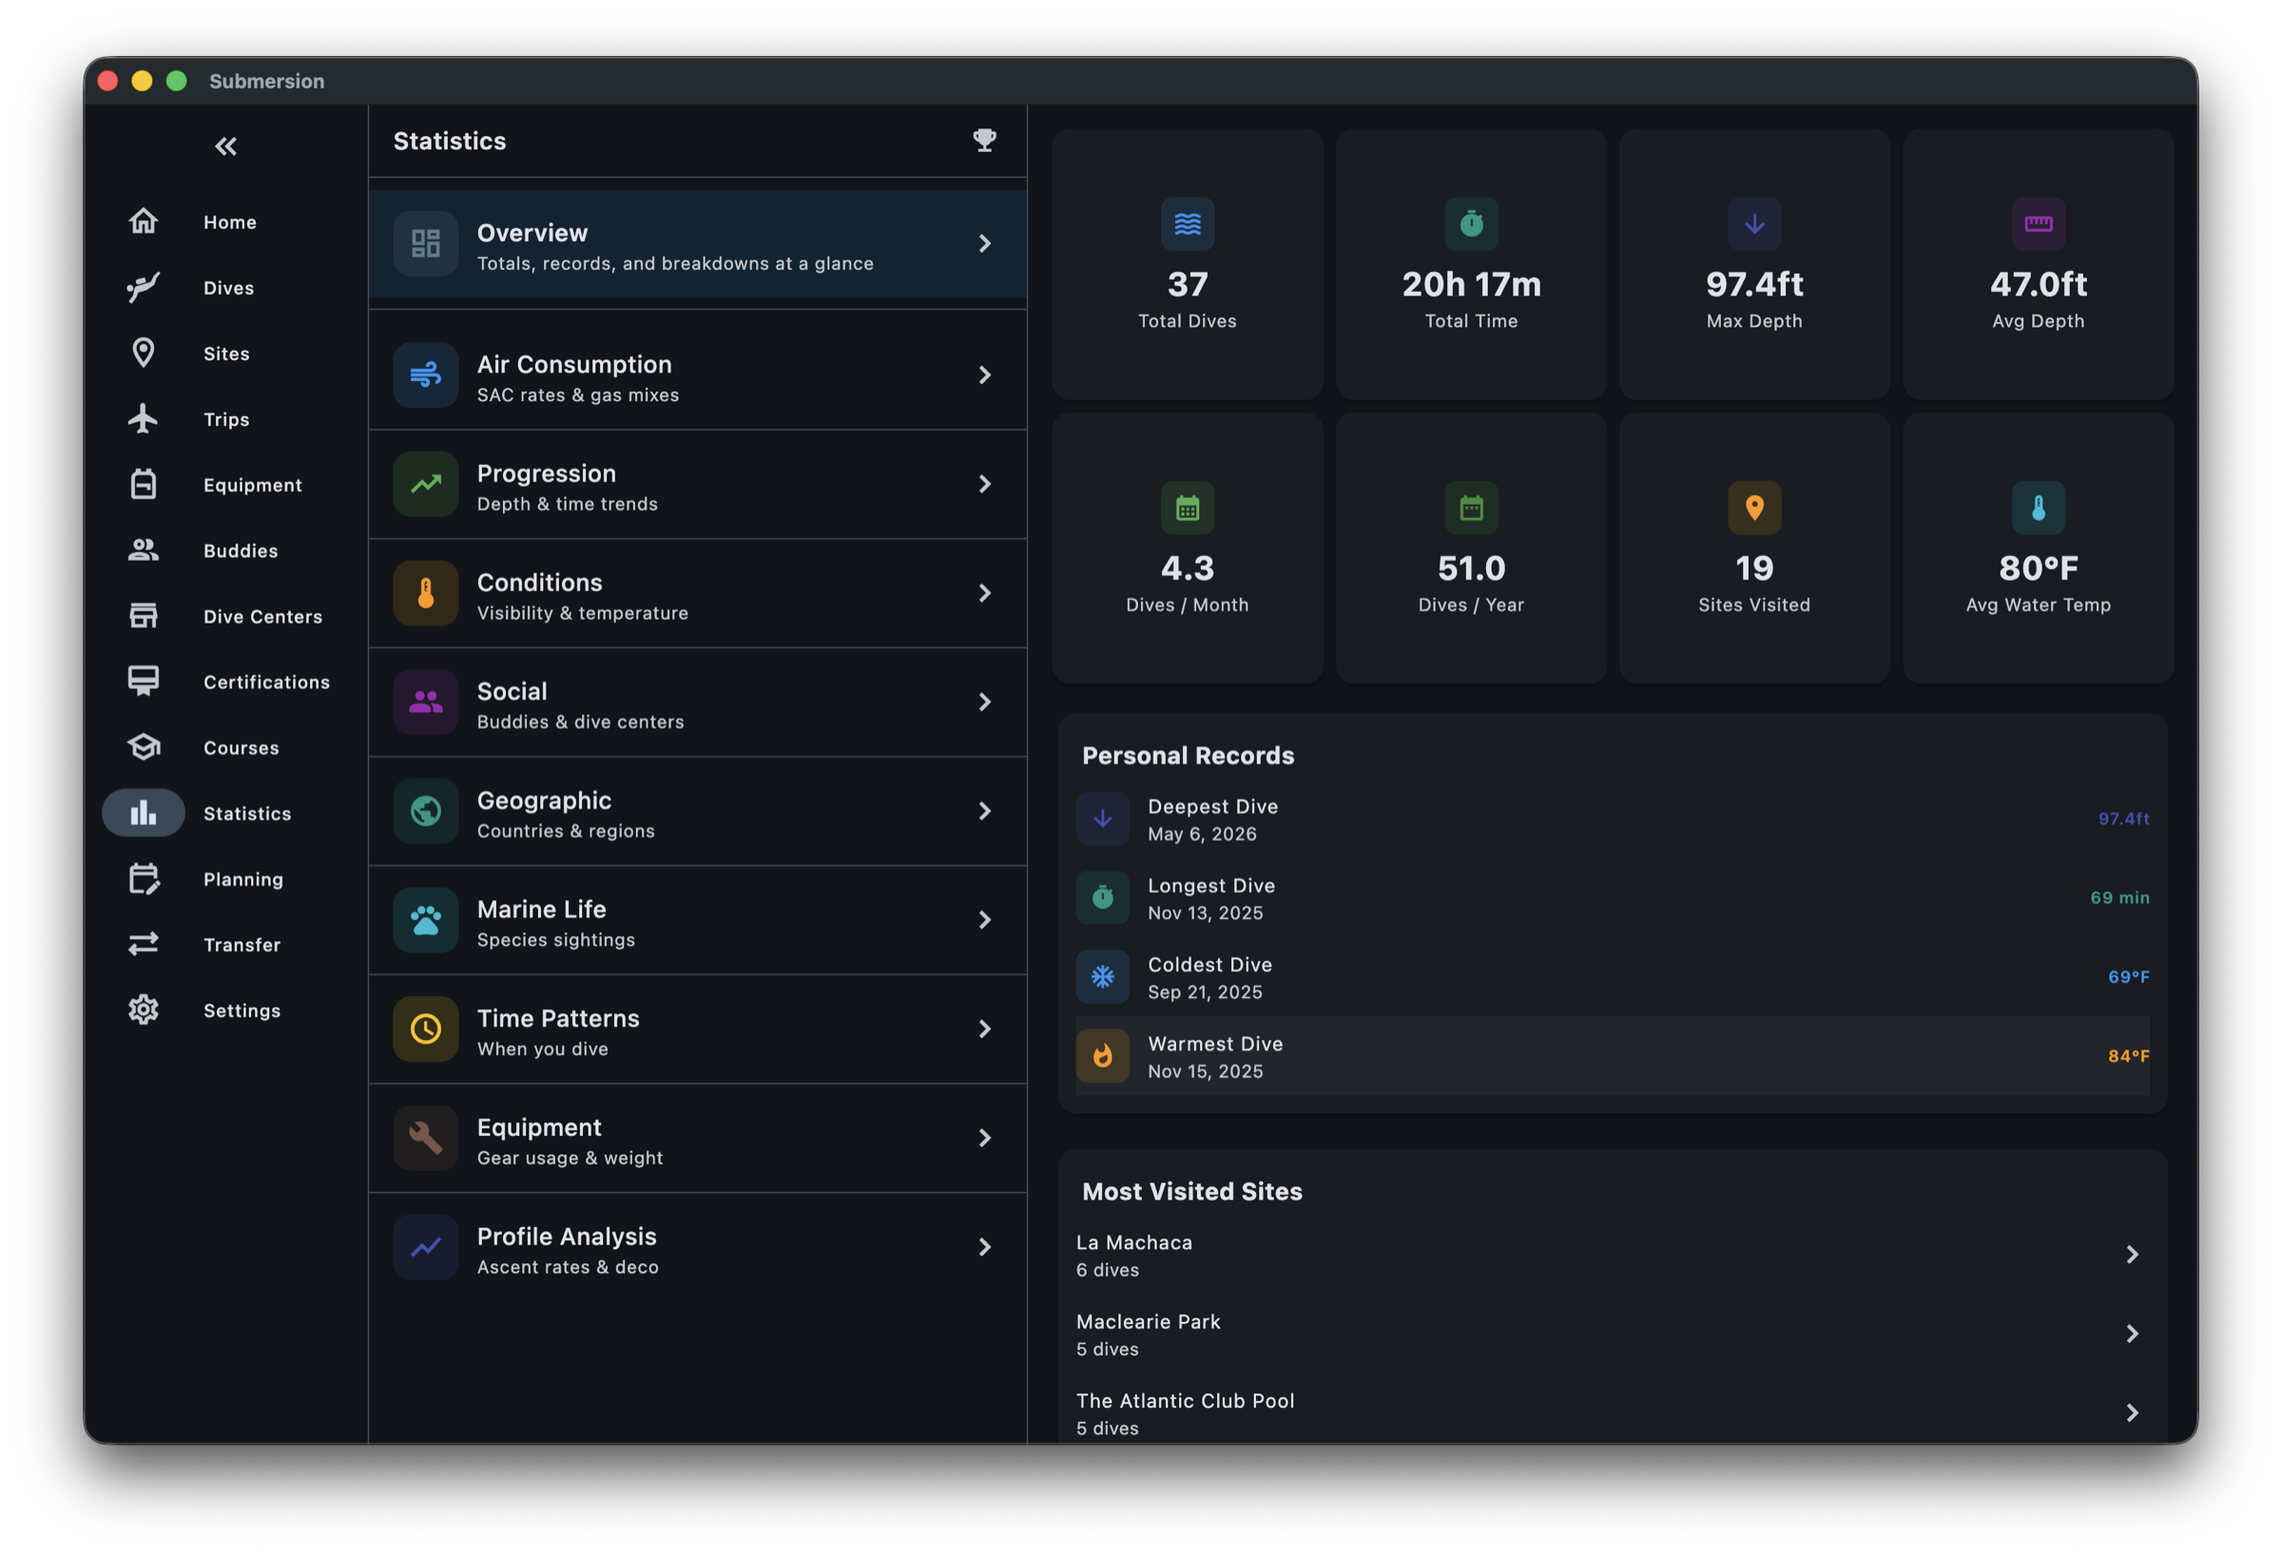
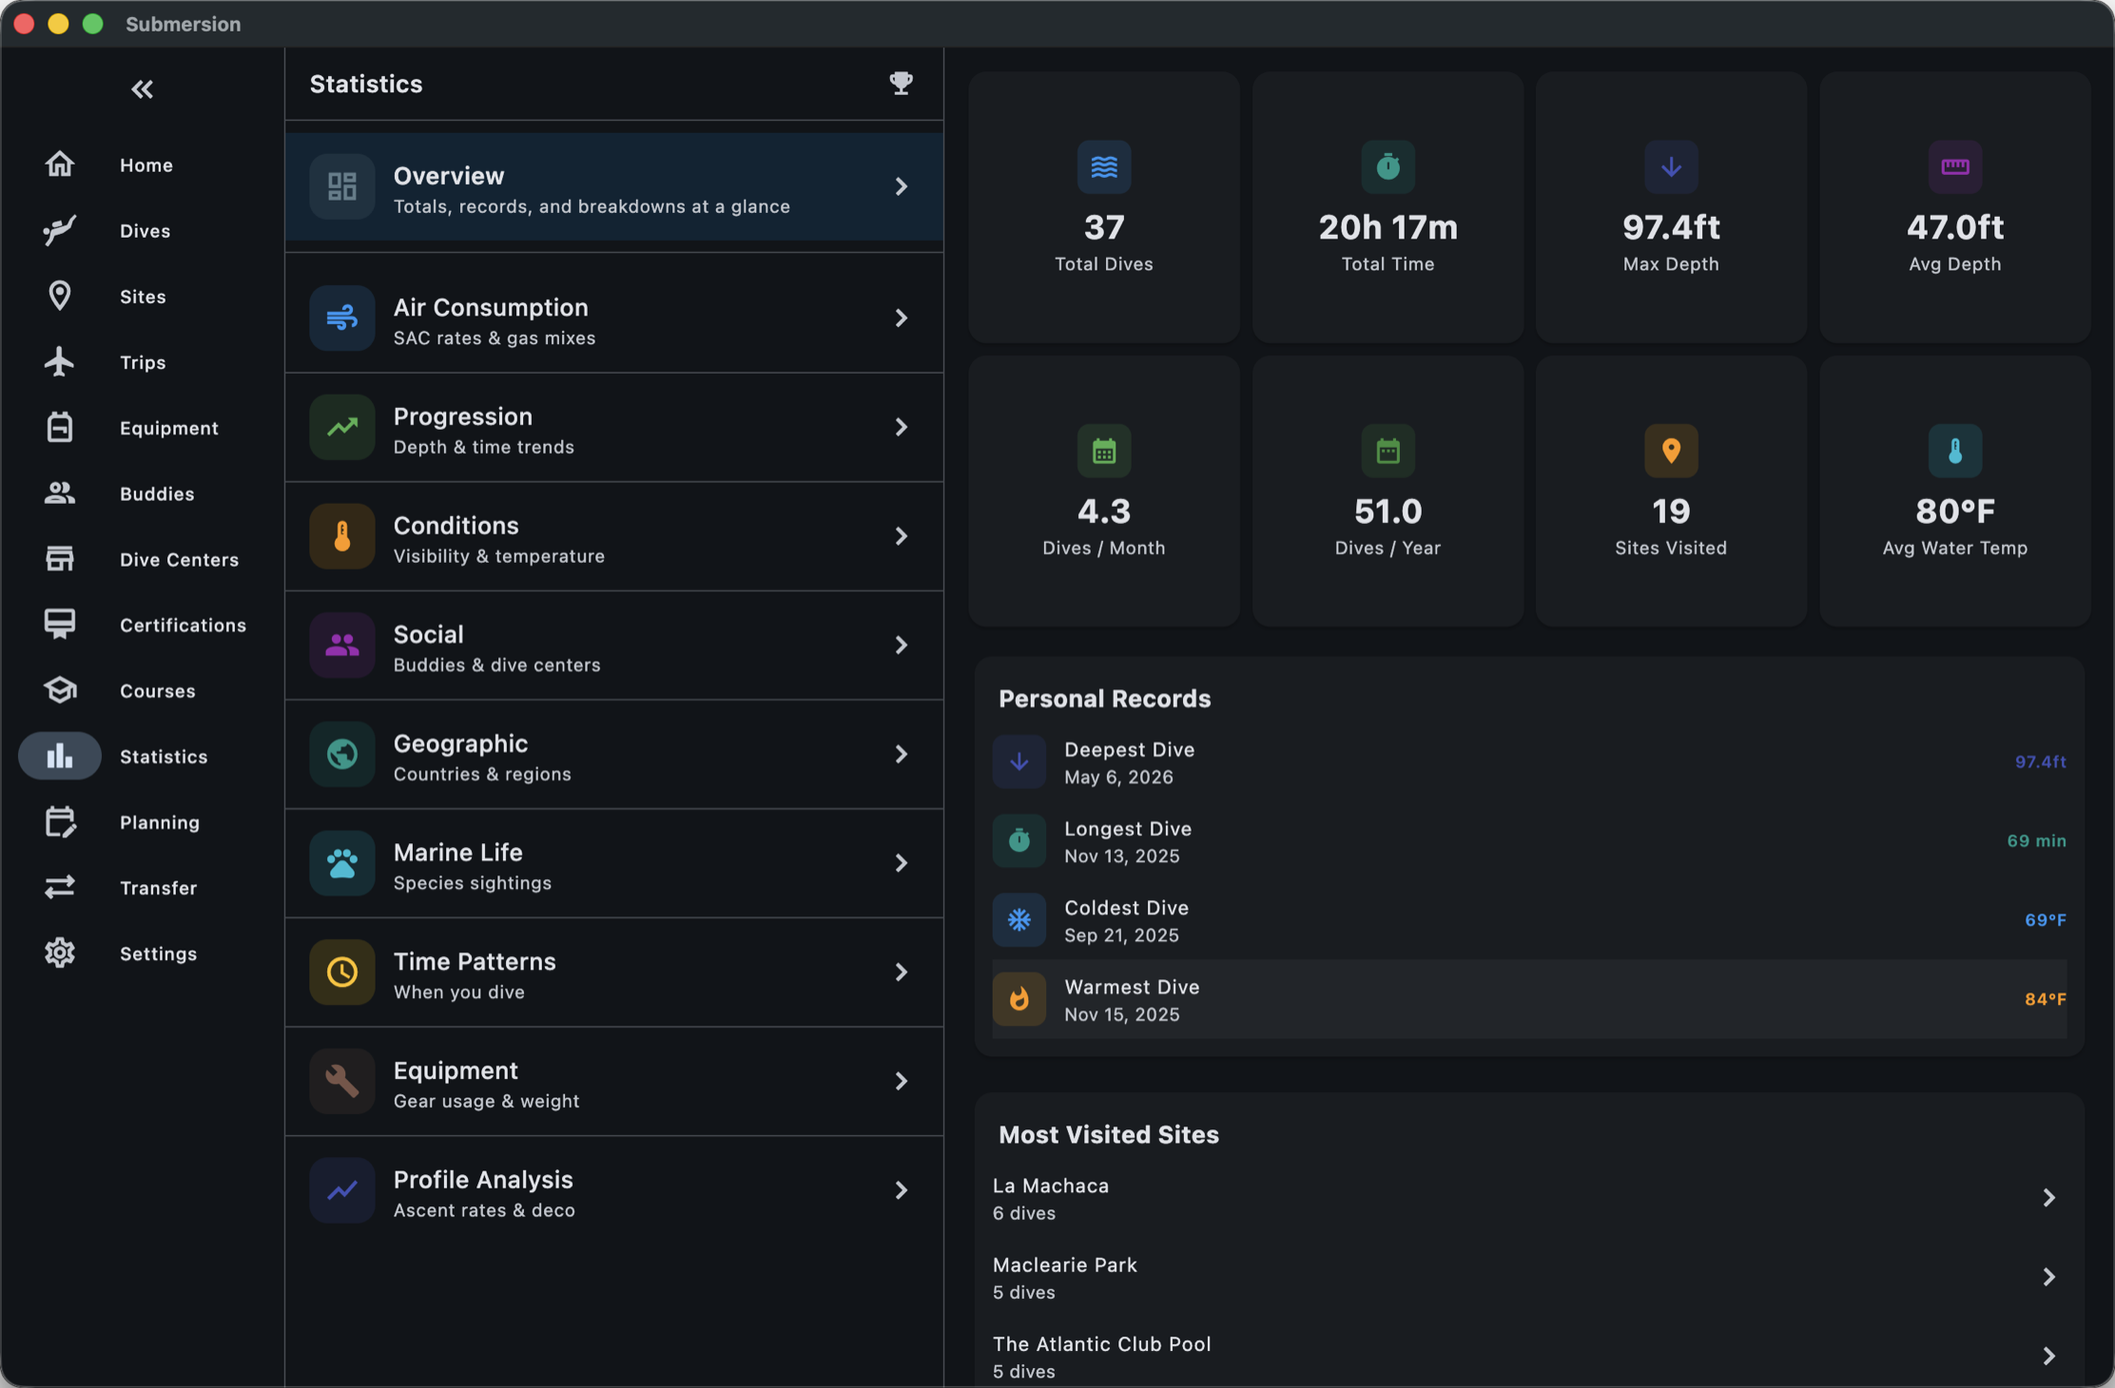
Add a tilted app screenshot beside the hero copy; crop screenshots to window bounds
The hero becomes a two-column grid at 1000 px and up with dive_detail.png
on the right, stacked below the copy on narrower screens. All seventeen
screenshots lose the transparent screencapture shadow margin so the CSS
frame sits on the window edge; image dimensions updated to match.

Claude-Session: https://claude.ai/code/session_01BK9uBQEs8wN5rHCUNCGXxz

diff --git a/index.html b/index.html
@@ -85,19 +85,24 @@
       </nav>
 
       <section class="hero">
-        <div class="zone__inner wrap">
-          <p class="eyebrow">Free · Open source · iOS · Android · macOS · Windows · Linux</p>
-          <h1>The complete dive app, free and open.</h1>
-          <p class="lead">
-            Download your computer, check the deco on the profile, plan tomorrow's dive with the gas
-            you actually have, log who you dove with and what you saw, and keep every bit of it on
-            your own hardware. Rec or tech, single tank or rebreather, it all fits in the same
-            logbook.
-          </p>
-          <div class="cta-row">
-            <a class="btn" href="#download">Download</a>
-            <a class="btn btn--ghost" href="https://github.com/submersion-app/submersion" target="_blank" rel="noreferrer">Source on GitHub</a>
+        <div class="zone__inner wrap hero__inner">
+          <div class="hero__copy">
+            <p class="eyebrow">Free · Open source · iOS · Android · macOS · Windows · Linux</p>
+            <h1>The complete dive app, free and open.</h1>
+            <p class="lead">
+              Download your computer, check the deco on the profile, plan tomorrow's dive with the
+              gas you actually have, log who you dove with and what you saw, and keep every bit of
+              it on your own hardware. Rec or tech, single tank or rebreather, it all fits in the
+              same logbook.
+            </p>
+            <div class="cta-row">
+              <a class="btn" href="#download">Download</a>
+              <a class="btn btn--ghost" href="https://github.com/submersion-app/submersion" target="_blank" rel="noreferrer">Source on GitHub</a>
+            </div>
           </div>
+          <figure class="hero__art">
+            <img src="screenshots/dive_detail.png" alt="Submersion on macOS: the dive list beside a dive's detail with its profile, deco status and tissue loading" width="2228" height="1392" fetchpriority="high" decoding="async" />
+          </figure>
         </div>
       </section>
     </header>
@@ -112,7 +117,7 @@
             first time, only new dives come across.
           </p>
           <figure class="shot--wide">
-            <img src="screenshots/computer_import.png" alt="Dive computer download review step showing a 70 percent match against an existing dive, both profiles overlaid, and four resolution actions" width="2400" height="1720" loading="lazy" decoding="async" />
+            <img src="screenshots/computer_import.png" alt="Dive computer download review step showing a 70 percent match against an existing dive, both profiles overlaid, and four resolution actions" width="2240" height="1559" loading="lazy" decoding="async" />
             <figcaption>The review step of a download: a likely duplicate shown against the existing dive, both profiles overlaid, and the four ways to resolve it.</figcaption>
           </figure>
           <div class="features">
@@ -166,11 +171,11 @@
           </p>
           <div class="shots shots--2">
             <figure>
-              <img src="screenshots/dive_detail.png" alt="Dive list beside a dive detail pane with header statistics, the dive profile with events, deco status, oxygen exposure and tissue loading" width="2400" height="1565" loading="lazy" decoding="async" />
+              <img src="screenshots/dive_detail.png" alt="Dive list beside a dive detail pane with header statistics, the dive profile with events, deco status, oxygen exposure and tissue loading" width="2228" height="1392" loading="lazy" decoding="async" />
               <figcaption>A dive's detail pane: header stats, the profile with events, deco status, oxygen exposure and tissue loading.</figcaption>
             </figure>
             <figure>
-              <img src="screenshots/dive_table.png" alt="Dive log in table view beside a dive's details, environment, weather and tide sections" width="2400" height="1565" loading="lazy" decoding="async" />
+              <img src="screenshots/dive_table.png" alt="Dive log in table view beside a dive's details, environment, weather and tide sections" width="2228" height="1392" loading="lazy" decoding="async" />
               <figcaption>The table view beside a dive's details: conditions, weather for the day, entry and exit, and the tide.</figcaption>
             </figure>
           </div>
@@ -221,15 +226,15 @@
           </p>
           <div class="shots">
             <figure>
-              <img src="screenshots/sites_map.png" alt="Dive site list beside an interactive map with clustered markers and a dive heat map" width="2400" height="1477" loading="lazy" decoding="async" />
+              <img src="screenshots/sites_map.png" alt="Dive site list beside an interactive map with clustered markers and a dive heat map" width="2224" height="1301" loading="lazy" decoding="async" />
               <figcaption>Sites beside the map, with clustering and the heat map on.</figcaption>
             </figure>
             <figure>
-              <img src="screenshots/site_detail.png" alt="Three-dimensional seafloor terrain of a dive site with the dive's estimated path drawn on it" width="2400" height="1565" loading="lazy" decoding="async" />
+              <img src="screenshots/site_detail.png" alt="Three-dimensional seafloor terrain of a dive site with the dive's estimated path drawn on it" width="2228" height="1392" loading="lazy" decoding="async" />
               <figcaption>A site's 3D seafloor from bathymetry data, with the dive's estimated path.</figcaption>
             </figure>
             <figure>
-              <img src="screenshots/marine_life.png" alt="Marine life statistics with species sightings" width="2400" height="1565" loading="lazy" decoding="async" />
+              <img src="screenshots/marine_life.png" alt="Marine life statistics with species sightings" width="2228" height="1392" loading="lazy" decoding="async" />
               <figcaption>Species sightings across the log.</figcaption>
             </figure>
           </div>
@@ -271,15 +276,15 @@
           </p>
           <div class="shots">
             <figure>
-              <img src="screenshots/photo_gallery.png" alt="A dive video shown full screen with a dive computer face overlay reading depth, NDL, time, gas and tank pressure, and a small dive profile marking the moment it was taken" width="2400" height="1627" loading="lazy" decoding="async" />
+              <img src="screenshots/photo_gallery.png" alt="A dive video shown full screen with a dive computer face overlay reading depth, NDL, time, gas and tank pressure, and a small dive profile marking the moment it was taken" width="2208" height="1435" loading="lazy" decoding="async" />
               <figcaption>A photo or video full screen, with what your computer read at that moment and where it sits on the profile.</figcaption>
             </figure>
             <figure>
-              <img src="screenshots/equipment_sets.png" alt="Equipment sets screen showing a warm water gear configuration" width="2400" height="1636" loading="lazy" decoding="async" />
+              <img src="screenshots/equipment_sets.png" alt="Equipment sets screen showing a warm water gear configuration" width="2224" height="1460" loading="lazy" decoding="async" />
               <figcaption>Equipment sets: build a configuration once, apply it to a dive.</figcaption>
             </figure>
             <figure>
-              <img src="screenshots/certifications.png" alt="Certifications list showing agency, level and validity for each card" width="2400" height="1565" loading="lazy" decoding="async" />
+              <img src="screenshots/certifications.png" alt="Certifications list showing agency, level and validity for each card" width="2228" height="1392" loading="lazy" decoding="async" />
               <figcaption>Certifications, with agency, level and validity.</figcaption>
             </figure>
           </div>
@@ -323,16 +328,16 @@
             you can scrub through second by second.
           </p>
           <figure class="shot--wide">
-            <img src="screenshots/profile_player.png" alt="Full-screen dive profile playback with depth, temperature, NDL, ppO2 and tank pressure over time" width="2400" height="1669" loading="lazy" decoding="async" />
+            <img src="screenshots/profile_player.png" alt="Full-screen dive profile playback with depth, temperature, NDL, ppO2 and tank pressure over time" width="2248" height="1516" loading="lazy" decoding="async" />
             <figcaption>Full-screen playback with depth, temperature, NDL, ppO₂ and tank pressure on one timeline.</figcaption>
           </figure>
           <div class="shots shots--2">
             <figure>
-              <img src="screenshots/tissue_loading.png" alt="Tissue loading panel with a bar per compartment and a heat map of on-gassing and off-gassing over the dive" width="2400" height="1565" loading="lazy" decoding="async" />
+              <img src="screenshots/tissue_loading.png" alt="Tissue loading panel with a bar per compartment and a heat map of on-gassing and off-gassing over the dive" width="2228" height="1392" loading="lazy" decoding="async" />
               <figcaption>Tissue loading for all 16 compartments, and how each one loaded and unloaded through the dive.</figcaption>
             </figure>
             <figure>
-              <img src="screenshots/dive_3d.png" alt="Three-dimensional landscape of the 16 tissue compartments over the course of a dive" width="2400" height="1565" loading="lazy" decoding="async" />
+              <img src="screenshots/dive_3d.png" alt="Three-dimensional landscape of the 16 tissue compartments over the course of a dive" width="2228" height="1392" loading="lazy" decoding="async" />
               <figcaption>The 16 tissue compartments as a landscape that rises and falls through the dive.</figcaption>
             </figure>
           </div>
@@ -383,11 +388,11 @@
           </p>
           <div class="shots shots--2">
             <figure>
-              <img src="screenshots/planner.png" alt="Dive planner with a multi-segment profile, gas list and decompression schedule" width="2400" height="1565" loading="lazy" decoding="async" />
+              <img src="screenshots/planner.png" alt="Dive planner with a multi-segment profile, gas list and decompression schedule" width="2228" height="1392" loading="lazy" decoding="async" />
               <figcaption>A plan as segments, with the schedule the model produces.</figcaption>
             </figure>
             <figure>
-              <img src="screenshots/gas_blender.png" alt="Trimix blender showing the partial-pressure fill procedure and fill cost" width="2400" height="1565" loading="lazy" decoding="async" />
+              <img src="screenshots/gas_blender.png" alt="Trimix blender showing the partial-pressure fill procedure and fill cost" width="2228" height="1392" loading="lazy" decoding="async" />
               <figcaption>The blender: fill procedure for the target mix, and what the fill costs.</figcaption>
             </figure>
           </div>
@@ -439,15 +444,15 @@
           </p>
           <div class="shots">
             <figure>
-              <img src="screenshots/statistics.png" alt="Dive statistics overview in dark mode with totals, personal records and most visited sites" width="2400" height="1636" loading="lazy" decoding="async" />
+              <img src="screenshots/statistics.png" alt="Dive statistics overview in dark mode with totals, personal records and most visited sites" width="2224" height="1460" loading="lazy" decoding="async" />
               <figcaption>Statistics: totals, records, and nine more pages behind them.</figcaption>
             </figure>
             <figure>
-              <img src="screenshots/sync_settings.png" alt="Data settings with backup and restore, database cloud sync, photo and media sources, database storage, offline maps and data quality" width="2400" height="1565" loading="lazy" decoding="async" />
+              <img src="screenshots/sync_settings.png" alt="Data settings with backup and restore, database cloud sync, photo and media sources, database storage, offline maps and data quality" width="2228" height="1392" loading="lazy" decoding="async" />
               <figcaption>Backup, sync, storage and offline maps, all under one settings page.</figcaption>
             </figure>
             <figure>
-              <img src="screenshots/themes.png" alt="Theme gallery showing the five app themes" width="2400" height="1565" loading="lazy" decoding="async" />
+              <img src="screenshots/themes.png" alt="Theme gallery showing the five app themes" width="2228" height="1392" loading="lazy" decoding="async" />
               <figcaption>Five themes, each in light and dark.</figcaption>
             </figure>
           </div>

diff --git a/styles.css b/styles.css
@@ -144,13 +144,29 @@ img { max-width: 100%; height: auto; display: block; }
 }
 h1 {
   font-family: var(--font-display); font-weight: 300;
-  font-size: clamp(42px, 6.5vw, 82px); line-height: 1.04; letter-spacing: 0.005em; margin: 0;
+  font-size: clamp(42px, 5.2vw, 68px); line-height: 1.04; letter-spacing: 0.005em; margin: 0;
 }
 .lead {
   color: var(--ink-muted); font-size: clamp(16px, 1.5vw, 18px);
   line-height: 1.7; max-width: 52ch; margin: 24px 0 0;
 }
 .cta-row { display: flex; gap: 14px; flex-wrap: wrap; margin-top: 36px; }
+
+/* Hero: copy beside a tilted app screenshot at desktop, stacked below it on narrow screens */
+.hero__inner { display: grid; grid-template-columns: minmax(0, 1fr); gap: 40px; align-items: center; width: 100%; }
+.hero__art { margin: 0; }
+.hero__art img {
+  width: 100%; border-radius: 14px; border: 1px solid var(--line);
+  box-shadow: 0 40px 100px rgba(0, 0, 0, 0.55);
+}
+@media (min-width: 1000px) {
+  .hero__inner { grid-template-columns: minmax(0, 11fr) minmax(0, 10fr); gap: 48px; }
+  .hero__art { width: 118%; }
+  .hero__art img {
+    transform: perspective(1400px) rotateY(-9deg) rotateX(2deg);
+    transform-origin: left center;
+  }
+}
 
 .btn {
   display: inline-flex; align-items: center; justify-content: center; gap: 10px;
